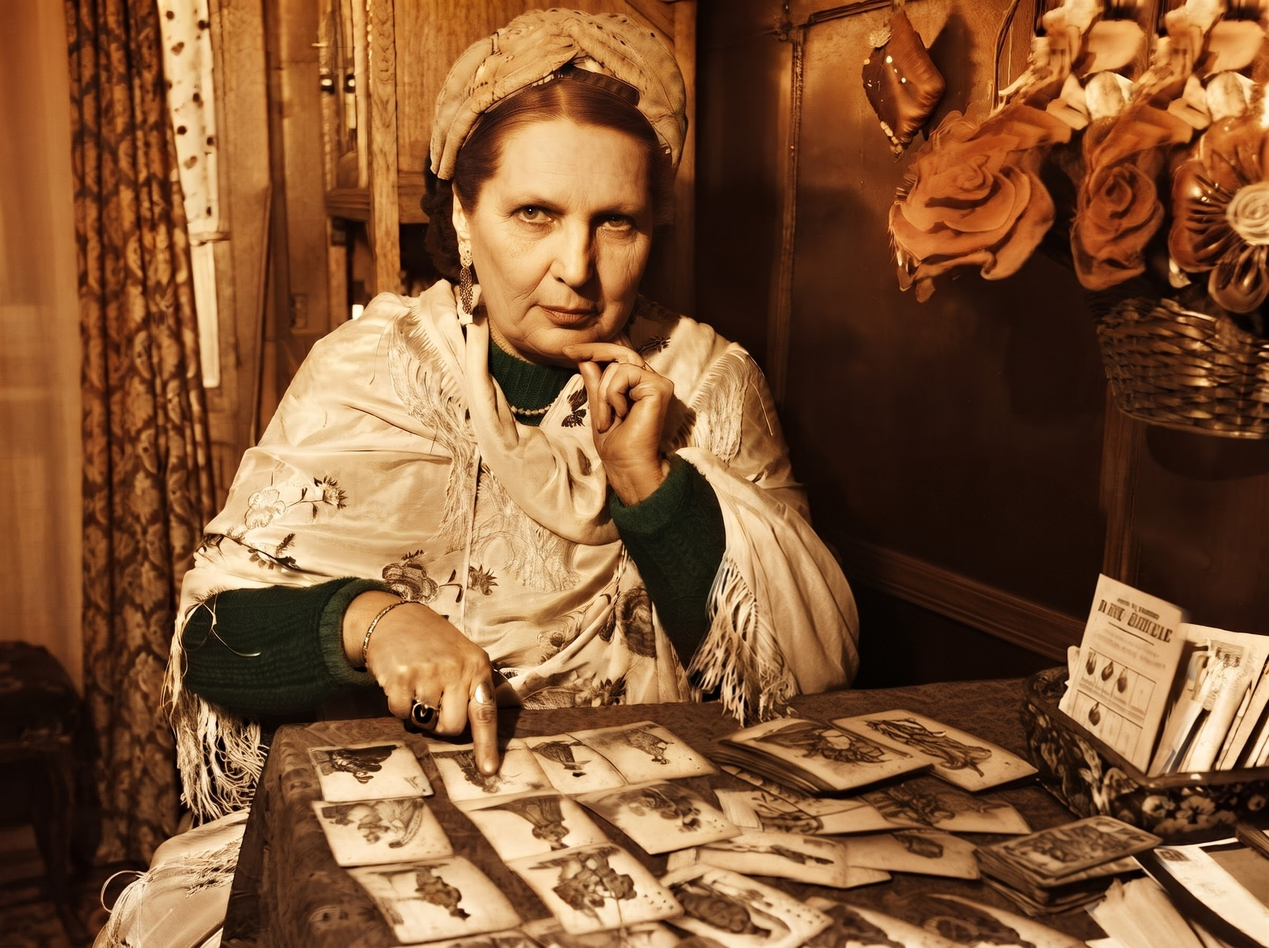
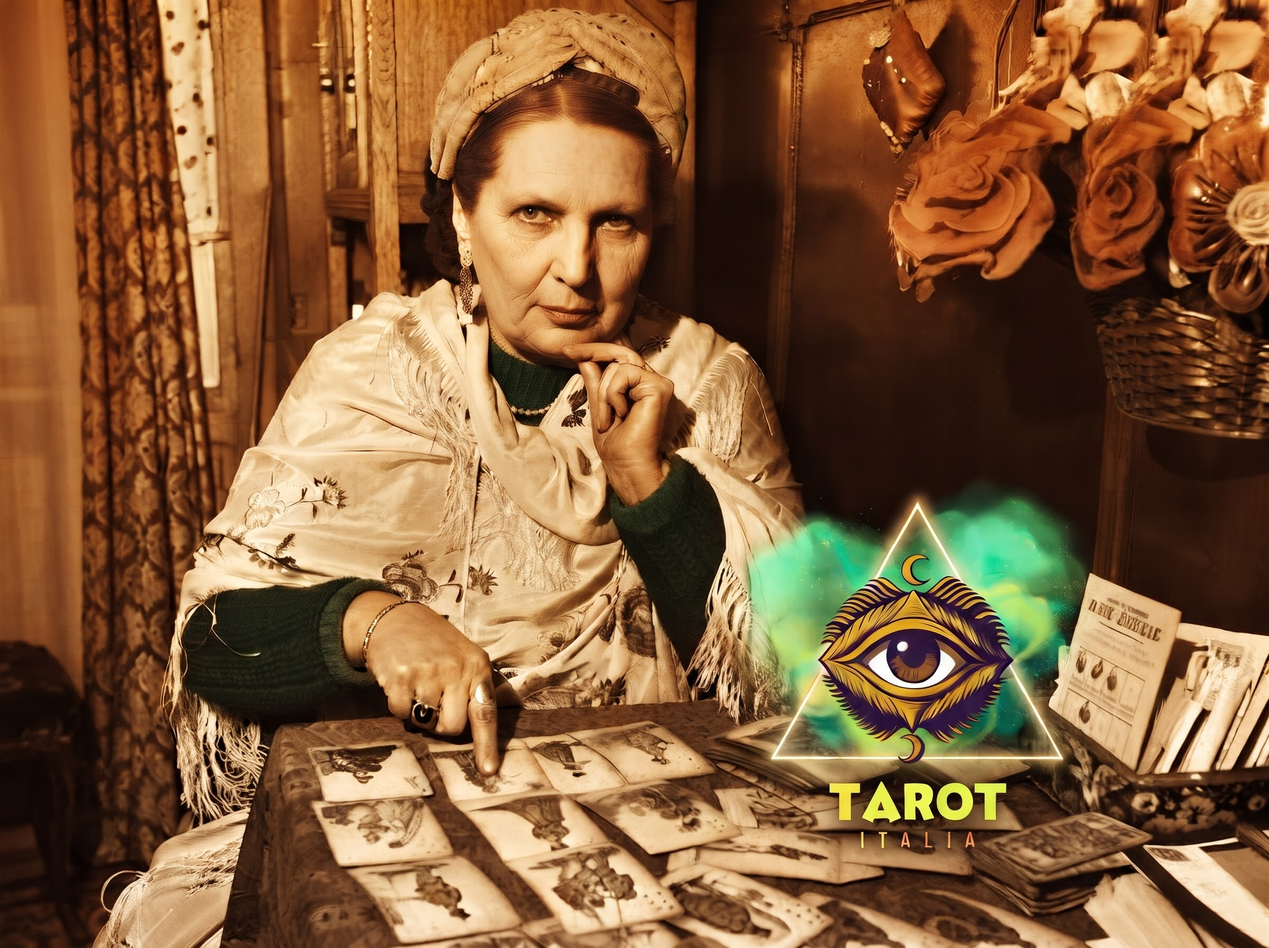
fix: use Atmosfera e Metodo photo as-is; keep section title only
Replace the inpainted asset with Maria's as-is JPEG (brand mark kept)
and restore «Atmosfera e Metodo» as the section heading without
descriptive figcaptions or photo narration.

Changed region(s): [[0.5312, 0.5, 0.9688, 0.9688]]

diff --git a/src/screens/HomeScreen.tsx b/src/screens/HomeScreen.tsx
@@ -29,7 +29,7 @@ import {
 } from '../lib/siteContacts';
 import practitionerHandsImg from '../assets/images/percorsi_hands_tarot_1794651609400.jpg';
 
-/** Home «Atmosfera e Metodo» — cleaned consultation-table photo (no logo/text watermark). */
+/** Home «Atmosfera e Metodo» — as-is photo (brand mark on image kept). */
 const ATMOSFERA_METODO_IMG = '/brand/atmosfera-metodo.jpg';
 
 interface HomeScreenProps {
@@ -122,12 +122,18 @@ export function HomeScreen({
       </section>
 
       {/* Atmospheric Showcase — below the opening brand composition */}
-      <section aria-label="Atmosfera e Metodo">
+      <section aria-labelledby="atmosfera-metodo-heading" className="space-y-4">
+        <h2
+          id="atmosfera-metodo-heading"
+          className="text-[11px] font-semibold uppercase tracking-[0.08em] text-[#D4AF37]"
+        >
+          Atmosfera e Metodo
+        </h2>
         <figure className="rounded-2xl overflow-hidden border border-[#D4AF37]/20 glass-tier-1">
           <div className="aspect-[16/9] w-full overflow-hidden">
             <ResilientImage
               src={ATMOSFERA_METODO_IMG}
-              alt="Maria Teresa Rogani al tavolo di consultazione con i tarocchi"
+              alt="Atmosfera e Metodo"
               className="w-full h-full object-cover object-center"
               fallbackLabel="Atmosfera e Metodo"
             />
